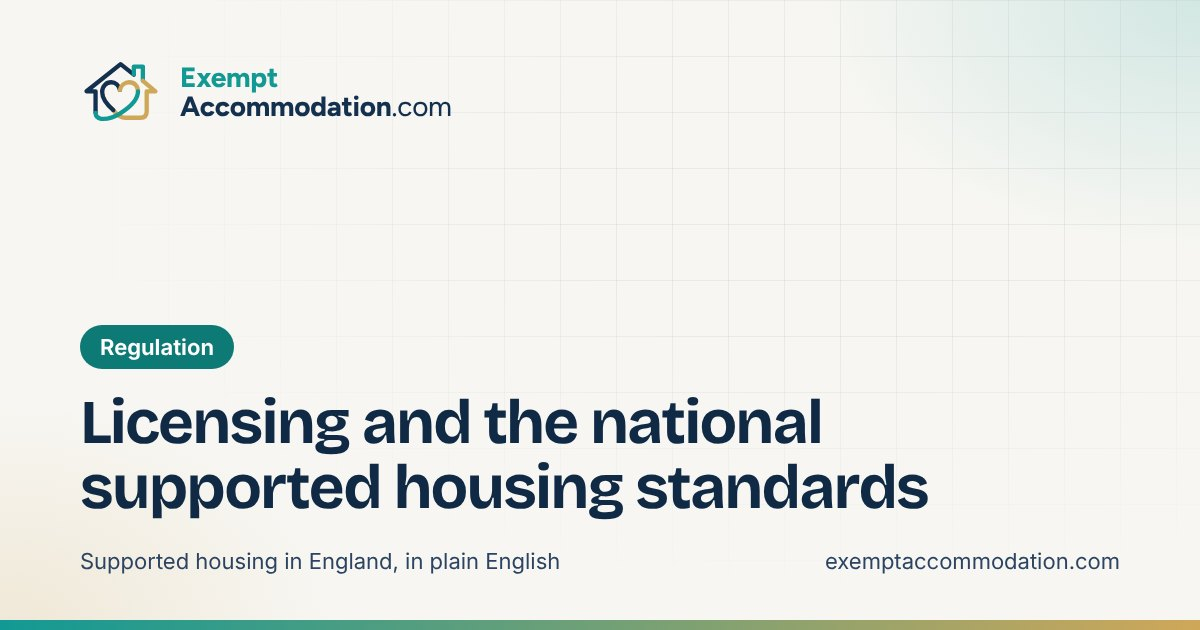
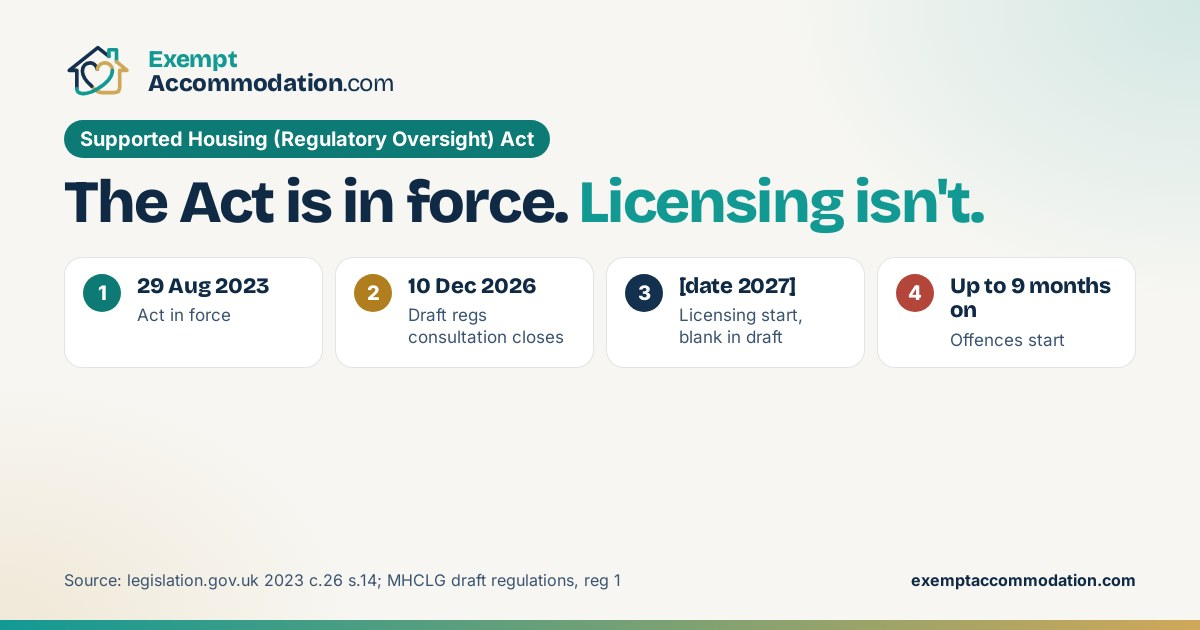
Refresh Regulatory Oversight Act guide: what is in force and what the draft licensing regulations add (18 Nov 2026)
- Act in force since 29 Aug 2023 (s.14(2)); new section on why licensing is not
- Draft Supported Housing (Licensing) (England) Regulations 2027: consultation closes 10 Dec 2026, start date blank (reg 1(2)), offences up to nine months later (reg 1(3))
- Strategy deadline now attributed to the Feb 2026 statutory guidance
- Government response date corrected to updated 16 Oct 2026; three new primary sources
- New timeline share image; three things to start this week
- Managing agents guide: stale 'later in 2026' FAQ answer fixed
- LinkedIn record: Wednesday 18 Nov post checked, unsourced opening line replaced

Claude-Session: https://claude.ai/code/session_01QFNGV9gMa13o5fXuVHbx1g

diff --git a/docs/marketing/linkedin/2026-11-16.md b/docs/marketing/linkedin/2026-11-16.md
@@ -1,6 +1,6 @@
 # LinkedIn posts: week of 16 November 2026
 
-Status: Monday post checked and sent to the Hermes inbox (16 Nov). Tuesday post written and handed off (17 Nov). Wednesday and Friday still drafts.
+Status: Monday post checked and sent to the Hermes inbox (16 Nov). Tuesday post written and handed off (17 Nov). Wednesday post checked and handed off (18 Nov). Friday still a draft.
 
 ---
 
@@ -66,22 +66,31 @@ How does your team decide when a run of missed sessions needs a review?
 
 ## Wednesday 18 November: intensive housing management
 
-Intensive housing management is one of the most challenged lines in a supported housing service charge.
+Status: checked and handed off 18 Nov (quick-links page, SEA Desk and project copy). Opening line rewritten: "one of the most challenged lines" had no source, so the post now opens on the regulation itself.
 
-It can be eligible for Housing Benefit, but only if your evidence shows it is housing management and not support. That usually means a time record for any staff whose time is split between the two.
+Housing Benefit won't pay for support. Schedule 1 to the Housing Benefit Regulations 2006 says so in plain words: charges for "general counselling or of any other support services" are ineligible, whoever provides them.
 
-If a council asks, you want to show:
+That's the rule intensive housing management has to clear. It can be paid because it's housing management, a cost connected with providing the accommodation. The moment it reads like support, it's in the wrong column.
+
+This next bit catches people out. If one charge mixes the two and you haven't separated them, paragraph 3 of the same Schedule tells the council to apportion it, working out how much is "fairly attributable" to the ineligible part. So the split gets made either way. The only question is whether it's made from your records or from someone else's estimate.
+
+If a council asks, you want to be able to show:
 
 - what the housing management tasks are
 - who does them and for how long
 - how that time is kept separate from support
 - how the charge is calculated from it
 
-There is a free rent and service charge schedule on ExemptAccommodation.com, with an intensive housing management time record built in. Link in the comments.
+Two things you could start this week:
+
+1. For any role that does both, add a simple weekly time record with two columns: housing management and support.
+2. Go through your service charge schedule and write next to each intensive housing management line the evidence you'd hand over if asked.
+
+There's a free rent and service charge schedule on ExemptAccommodation.com with an intensive housing management time record built in. Link in the comments.
 
 **First comment:** https://exemptaccommodation.com/templates/rent-and-service-charge-schedule/?utm_source=linkedin&utm_medium=social&utm_campaign=2026-11-18-ihm
 
-**Image:** `public/og/templates/rent-and-service-charge-schedule.jpg`
+**Image:** none (LinkedIn posts are text only).
 
 ---
 
